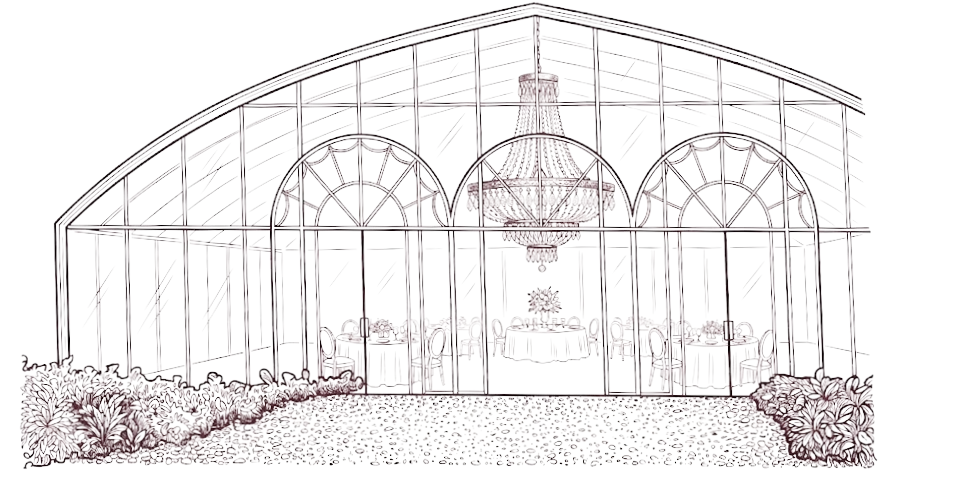
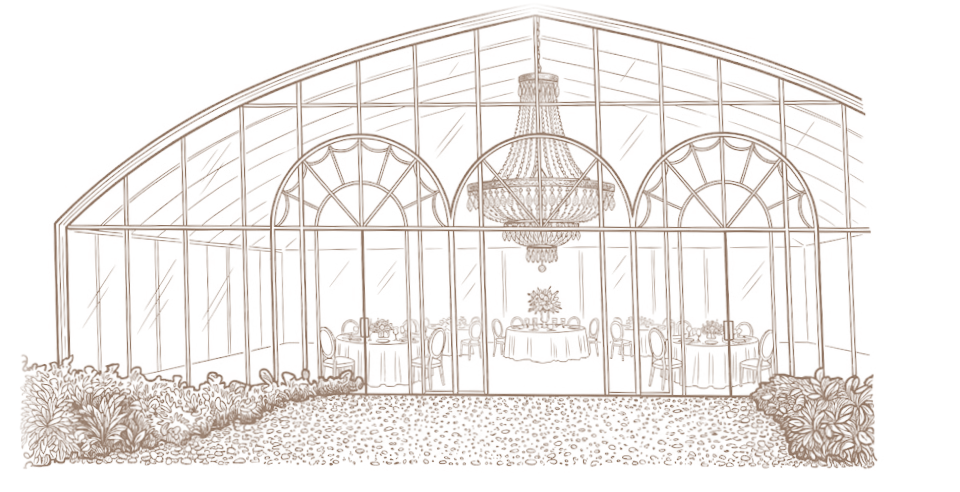
Fix atrium watermark edges/opacity, unify secondary buttons, trim copy
Atrium watermark: bake edge feathering directly into the PNG's alpha
channel instead of a CSS mask (which faded relative to the div's own
box rather than the image's actual rendered position, so it never
lined up right); revert the mobile position/size experiments back to
the original 10%/bottom, 115%; bump opacity 0.2 -> 0.24.

Buttons: nav RSVP (desktop + mobile menu) and all four RSVP-flow
buttons (Search, household confirm, keep-previous, submit) now match
the taupe-600 secondary color used by the Hero RSVP button, instead
of the old olive.

Copy/layout: drop the Timetable shuttle paragraph; drop the Where to
Stay map block and its now-redundant "A few recommendations" sub-
label, promoting that wording to the section's own kicker; remove the
RSVP button below the invitation card and let the card center itself
in the burgundy section.

Claude-Session: https://claude.ai/code/session_018cVrHxvtqPohuHnX6PutRN

diff --git a/src/components/sections/timetable-section.tsx b/src/components/sections/timetable-section.tsx
@@ -2,7 +2,6 @@
 
 import { motion } from "framer-motion";
 import { PageHeader } from "@/components/page-header";
-import { AnchorLink } from "@/components/anchor-link";
 
 const EASE = [0.16, 1, 0.3, 1] as const;
 
@@ -55,10 +54,23 @@ export function TimetableSection() {
           height the image needs at its own bg-size percentage (vw-based,
           matching how bg-size scales with viewport width) so it always
           sits fully below the shuttle line and never gets clipped or
-          overlaps the text above it. */}
+          overlaps the text above it. The line art itself is recolored
+          (was flat black ink, only reading as warm brown from the low
+          opacity blending with the page) to taupe-600 boosted 10% in
+          saturation, matching the richer tone used elsewhere. The edge
+          feather lives in the PNG's own alpha channel now (baked in),
+          not a CSS mask on this div — a mask here fades relative to the
+          div's own box, which rarely lines up with where bg-position/
+          bg-size actually put the image, so it either missed the real
+          edge or washed out the middle. Feathering the asset itself
+          means the fade always tracks the image's true edges, on both
+          layouts, regardless of position/size tweaks. Mobile position
+          reverted back to the original 10%/bottom, 115% size — mobile-
+          specific repositioning attempts (pushing it further right)
+          didn't land right and weren't worth the added complexity. */}
       <div
         aria-hidden="true"
-        className="pointer-events-none absolute inset-0 z-0 bg-[url('/gallery/venue-atrium-watermark.png')] bg-no-repeat bg-[position:10%_bottom] bg-[length:115%_auto] opacity-[0.2] sm:bg-right-bottom sm:bg-[length:50%_auto]"
+        className="pointer-events-none absolute inset-0 z-0 bg-[url('/gallery/venue-atrium-watermark.png')] bg-no-repeat bg-[position:10%_bottom] bg-[length:115%_auto] opacity-[0.24] sm:bg-right-bottom sm:bg-[length:50%_auto]"
       />
 
       <div className="relative z-10">
@@ -83,17 +95,12 @@ export function TimetableSection() {
               </motion.li>
             ))}
           </motion.ol>
-          <p className="mt-12 text-sm text-burgundy-600/80 text-center">
-            A shuttle will run from pick-up points around Gisborne, New Gisborne and
-            Macedon &mdash; see the <AnchorLink href="#faq" className="underline hover:text-burgundy-600">Q&amp;A</AnchorLink> section for details.
-          </p>
         </div>
         {/* Deliberately shorter than the watermark's own rendered height
             (59vw / 25.6vw at this bg-size — see above) rather than matching
             it exactly: since the image bottom-anchors to the section, a
             smaller reserve here lets its top portion rise up past this gap
-            and overlap the bottom-right of the text above (the roofline
-            peeking in behind "the Q&A section for details"), instead of
+            and overlap the bottom-right of the event list above, instead of
             sitting in its own fully separate blank band. Also just less
             empty space overall before "Where to Stay" starts. */}
         <div aria-hidden="true" className="h-[28vw] sm:h-[12vw]" />

diff --git a/src/components/sections/where-to-stay-section.tsx b/src/components/sections/where-to-stay-section.tsx
@@ -1,6 +1,4 @@
-import Image from "next/image";
 import { PageHeader } from "@/components/page-header";
-import { Reveal } from "@/components/reveal";
 
 const stays = [
   {
@@ -40,7 +38,7 @@ const stays = [
 export function WhereToStaySection() {
   return (
     <section id="where-to-stay" className="scroll-mt-24">
-      <PageHeader kicker="A few of our favourites" title="Where to Stay" />
+      <PageHeader kicker="A few recommendations" title="Where to Stay" />
       <div className="mx-auto max-w-2xl px-6 pb-20">
         <p className="text-center leading-relaxed">
           The Macedon Ranges fill up quickly, so we&rsquo;d suggest booking early.
@@ -59,36 +57,19 @@ export function WhereToStaySection() {
           , which both list houses and cottages across the area.
         </p>
 
-        <Reveal delay={0.1} className="mt-10">
-          <div className="relative aspect-[861/871] w-full overflow-hidden rounded-sm border border-gold-400/25">
-            <Image
-              src="/gallery/where-to-stay-map.png"
-              alt="Map showing Alora Macedon and the nearby towns of Macedon, New Gisborne and Gisborne"
-              fill
-              className="object-cover"
-            />
-          </div>
-          <p className="mt-3 text-center text-xs text-burgundy-600/60">
-            Approximate locations — the pin marks Alora Macedon, the nearby towns have accommodation.
-          </p>
-        </Reveal>
-
-        <div className="mt-12">
-          <p className="kicker text-sm text-taupe-600 text-center mb-8">A few recommendations</p>
-          <div className="space-y-8">
-            {stays.map((s) => (
-              <div key={s.name} className="border-t border-gold-400/40 pt-6">
-                <h3 className="font-display text-xl text-burgundy-600">{s.name}</h3>
-                <p className="text-sm mt-1">{s.address} &middot; {s.phone}</p>
-                <p className="text-sm mt-1">
-                  <a href={s.website} target="_blank" rel="noopener noreferrer" className="underline hover:text-burgundy-600">
-                    {s.website.replace(/^https?:\/\/(www\.)?/, "").replace(/\/$/, "")}
-                  </a>
-                </p>
-                <p className="text-sm mt-2 text-burgundy-600/80">{s.note}</p>
-              </div>
-            ))}
-          </div>
+        <div className="mt-12 space-y-8">
+          {stays.map((s) => (
+            <div key={s.name} className="border-t border-gold-400/40 pt-6">
+              <h3 className="font-display text-xl text-burgundy-600">{s.name}</h3>
+              <p className="text-sm mt-1">{s.address} &middot; {s.phone}</p>
+              <p className="text-sm mt-1">
+                <a href={s.website} target="_blank" rel="noopener noreferrer" className="underline hover:text-burgundy-600">
+                  {s.website.replace(/^https?:\/\/(www\.)?/, "").replace(/\/$/, "")}
+                </a>
+              </p>
+              <p className="text-sm mt-2 text-burgundy-600/80">{s.note}</p>
+            </div>
+          ))}
         </div>
       </div>
     </section>

diff --git a/src/components/sections/rsvp-section.tsx b/src/components/sections/rsvp-section.tsx
@@ -302,7 +302,7 @@ export function RsvpSection() {
               <button
                 type="submit"
                 disabled={searching}
-                className="self-start rounded-full bg-olive-800 text-cream-100 px-8 py-2.5 text-sm tracking-[0.2em] uppercase hover:bg-olive-900 transition-colors disabled:opacity-50"
+                className="self-start rounded-full bg-taupe-600 text-cream-100 px-8 py-2.5 text-sm tracking-[0.2em] uppercase hover:bg-[#77604f] transition-colors disabled:opacity-50"
               >
                 {searching ? "Searching..." : "Search"}
               </button>
@@ -361,7 +361,7 @@ export function RsvpSection() {
               <button
                 type="button"
                 onClick={confirmParty}
-                className="rounded-full bg-olive-800 text-cream-100 px-8 py-2.5 text-sm tracking-[0.2em] uppercase hover:bg-olive-900 transition-colors"
+                className="rounded-full bg-taupe-600 text-cream-100 px-8 py-2.5 text-sm tracking-[0.2em] uppercase hover:bg-[#77604f] transition-colors"
               >
                 Yes, that&rsquo;s us
               </button>
@@ -413,7 +413,7 @@ export function RsvpSection() {
               <button
                 type="button"
                 onClick={keepPreviousResponse}
-                className="rounded-full bg-olive-800 text-cream-100 px-8 py-2.5 text-sm tracking-[0.2em] uppercase hover:bg-olive-900 transition-colors"
+                className="rounded-full bg-taupe-600 text-cream-100 px-8 py-2.5 text-sm tracking-[0.2em] uppercase hover:bg-[#77604f] transition-colors"
               >
                 Still correct
               </button>
@@ -517,7 +517,7 @@ export function RsvpSection() {
             <button
               type="submit"
               disabled={submitStatus === "submitting"}
-              className="rounded-full bg-olive-800 text-cream-100 px-10 py-3 text-sm tracking-[0.2em] uppercase hover:bg-olive-900 transition-colors disabled:opacity-50"
+              className="rounded-full bg-taupe-600 text-cream-100 px-10 py-3 text-sm tracking-[0.2em] uppercase hover:bg-[#77604f] transition-colors disabled:opacity-50"
             >
               {submitStatus === "submitting" ? "Sending..." : "Send RSVP"}
             </button>

diff --git a/src/app/page.tsx b/src/app/page.tsx
@@ -1,5 +1,4 @@
 import Image from "next/image";
-import { AnchorLink } from "@/components/anchor-link";
 import { Hero } from "@/components/hero";
 import { Reveal } from "@/components/reveal";
 import { OurStorySection } from "@/components/sections/our-story-section";
@@ -16,6 +15,10 @@ export default function Home() {
     <main className="flex-1">
       <Hero photoSrc="/gallery/couple-rooftop.jpg" />
 
+      {/* No CTA below the card any more (removed per request) — the
+          section's py is symmetric top/bottom so the card, as the only
+          child now, sits vertically centered in the burgundy band on its
+          own rather than needing extra balancing margin. */}
       <section className="bg-burgundy-900 px-6 py-28 sm:py-36 text-center">
         <Reveal>
           <Image
@@ -39,15 +42,6 @@ export default function Home() {
             sizes="(min-width: 752px) 704px, calc(100vw - 48px)"
             className="mx-auto h-auto w-[min(calc(100vw-48px),704px)]"
           />
-        </Reveal>
-
-        <Reveal delay={0.15}>
-          <AnchorLink
-            href="#rsvp"
-            className="mt-14 inline-block rounded-full bg-olive-800 text-cream-100 px-10 py-3.5 text-sm tracking-[0.25em] uppercase transition-all duration-300 hover:bg-olive-900 hover:shadow-[0_8px_30px_rgba(63,66,31,0.3)]"
-          >
-            RSVP
-          </AnchorLink>
         </Reveal>
       </section>
 

diff --git a/src/components/nav.tsx b/src/components/nav.tsx
@@ -111,7 +111,7 @@ export function SiteNav() {
 
         <AnchorLink
           href="#rsvp"
-          className="hidden lg:inline-block rounded-full bg-olive-800 px-6 py-2 text-[11px] tracking-[0.2em] uppercase text-cream-100 hover:bg-olive-900 transition-colors duration-300"
+          className="hidden lg:inline-block rounded-full bg-taupe-600 px-6 py-2 text-[11px] tracking-[0.2em] uppercase text-cream-100 hover:bg-[#77604f] transition-colors duration-300"
         >
           RSVP
         </AnchorLink>
@@ -190,7 +190,7 @@ export function SiteNav() {
               <AnchorLink
                 href="#rsvp"
                 onClick={closeMenu}
-                className="inline-block rounded-full bg-olive-800 px-10 py-3 text-xs tracking-[0.25em] uppercase text-cream-100 hover:bg-olive-900 transition-colors duration-300"
+                className="inline-block rounded-full bg-taupe-600 px-10 py-3 text-xs tracking-[0.25em] uppercase text-cream-100 hover:bg-[#77604f] transition-colors duration-300"
               >
                 RSVP
               </AnchorLink>
